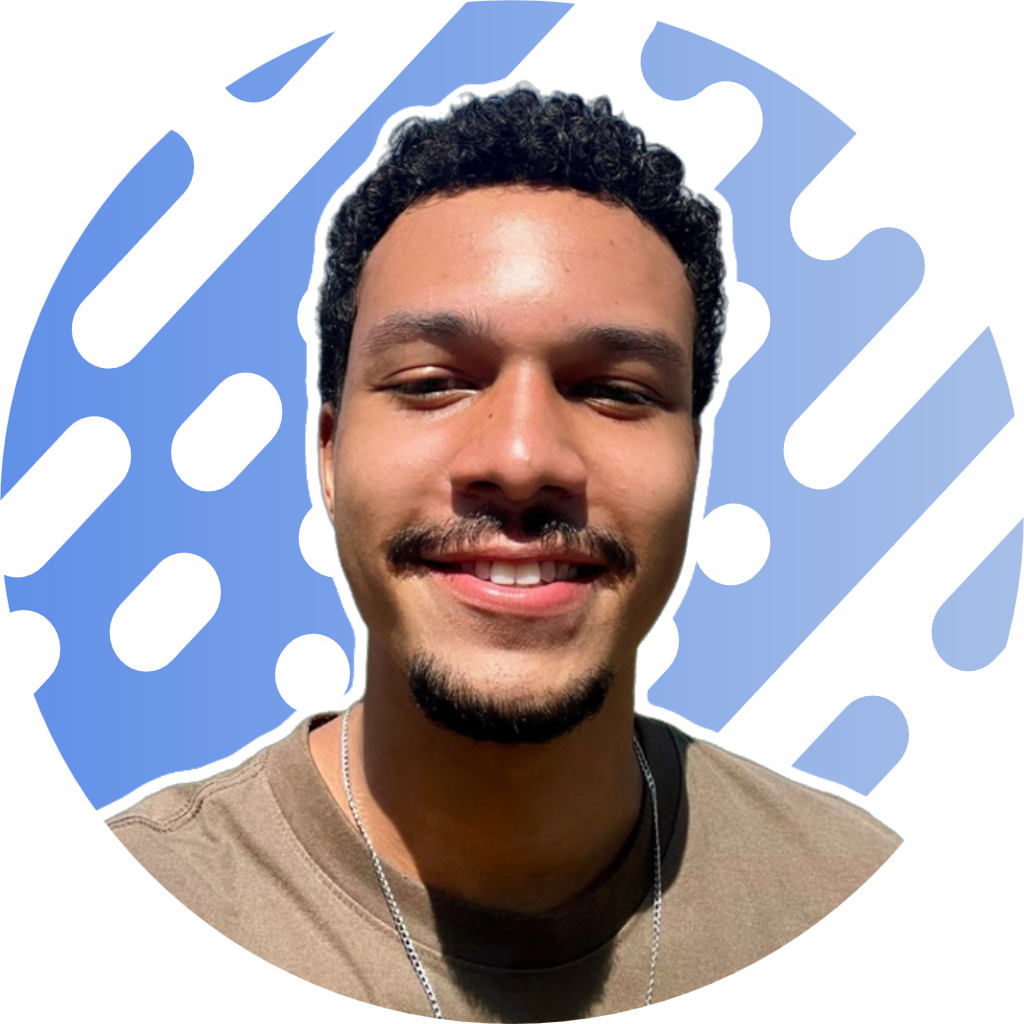
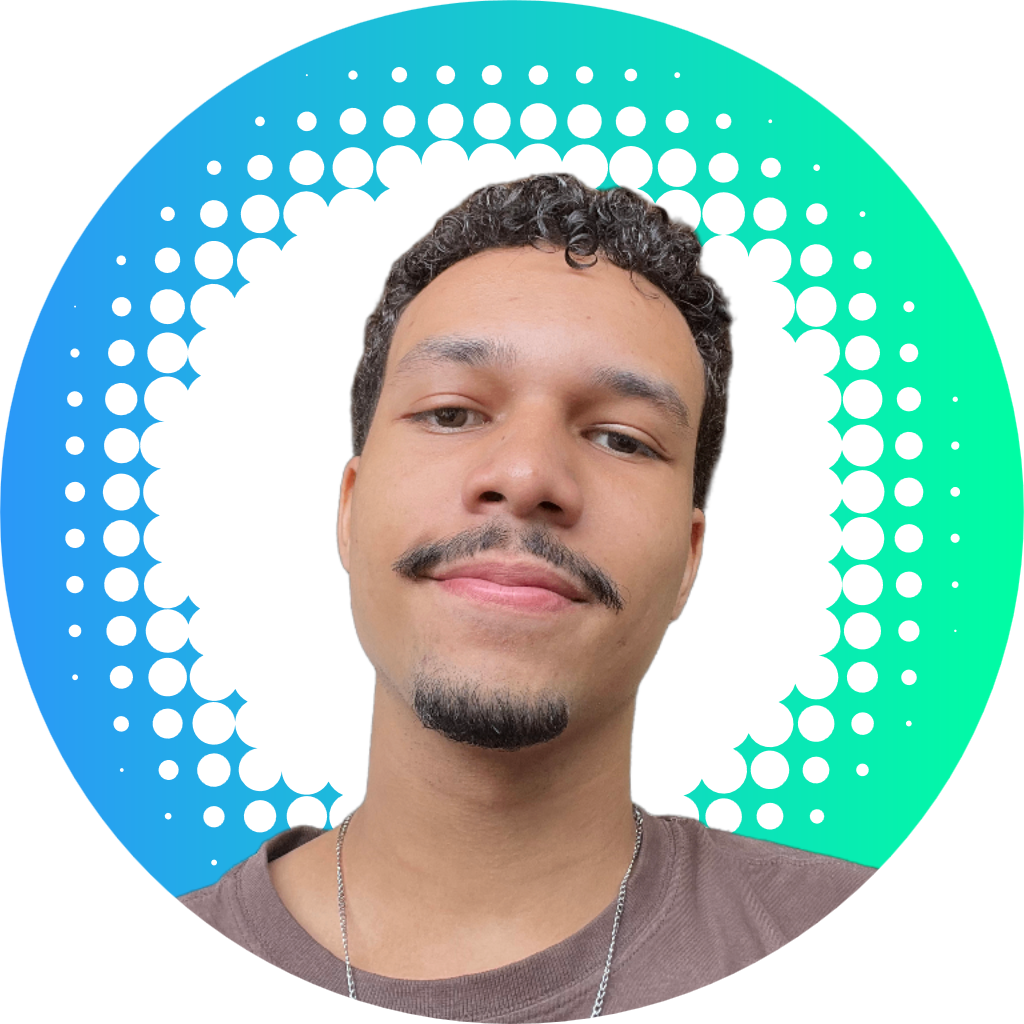
refactor: update project feature animation and improve SVG styling

diff --git a/app/components/sections/Projects.tsx b/app/components/sections/Projects.tsx
@@ -15,7 +15,7 @@ function ProjectFeature({ project, index }: { project: Project; index: number })
     target: itemRef,
     offset: ["start end", "end start"],
   });
-  const imageY = useTransform(scrollYProgress, [0, 1], [45, -45]);
+  const imageY = useTransform(scrollYProgress, [0, 1], [18, -18]);
 
   return (
     <article
@@ -29,25 +29,23 @@ function ProjectFeature({ project, index }: { project: Project; index: number })
         transition={{ duration: 0.6 }}
         className={`md:col-span-7 ${index % 2 ? "md:order-2" : ""}`}
       >
-        <div className="project-image relative aspect-[5/3] overflow-hidden bg-paper">
+        <motion.div
+          style={{ y: prefersReducedMotion ? 0 : imageY }}
+          className="project-image relative aspect-[5/3] overflow-hidden bg-background"
+        >
           {project.image ? (
-            <motion.div
-              style={{ y: prefersReducedMotion ? 0 : imageY }}
-              className="absolute -inset-y-12 inset-x-0"
-            >
-              <Image
-                src={project.image}
-                alt={`Visual conceitual do projeto ${project.title}`}
-                fill
-                sizes="(max-width: 768px) 100vw, 58vw"
-                className="object-cover"
-              />
-            </motion.div>
+            <Image
+              src={project.image}
+              alt={`Visual conceitual do projeto ${project.title}`}
+              fill
+              sizes="(max-width: 768px) 100vw, 58vw"
+              className="object-contain"
+            />
           ) : null}
           <div className="handwritten absolute left-4 top-4 -rotate-2 bg-paper px-3 py-2 text-sm font-bold text-ink">
             projeto 0{index + 1}
           </div>
-        </div>
+        </motion.div>
       </motion.div>
 
       <motion.div
